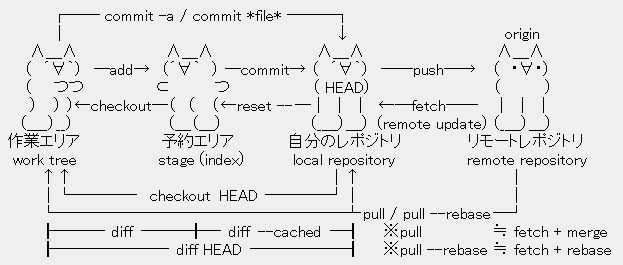
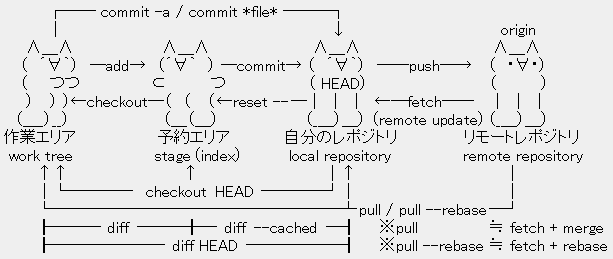
Update the figure. (checkout HEAD affects index)

diff --git a/README.md b/README.md
@@ -19,7 +19,7 @@ Git とは
 　（＿_）__）　　　　　　　 　（＿（＿） 　 　 　　　　 （_＿）＿） （remote update) （_＿）＿）
 作業エリア　　　　　　　 予約エリア　　　　　自分のレポジトリ　　　　　　リモートレポジトリ
 &nbsp;work tree　　　　　　　 stage (index)　　　　 local repository　　　　　 　remote repository
-　　　↑↑ 　 　 　 　　　　　　　　　　　　　　　　　&emsp;│↑ 　　　　　　　　　　　　　│
+　　　↑↑ 　 　 　　　　　　　↑　　　　　　　　　　&emsp;│↑ 　　　　　　　　　　　　　│
 　　　│└────&thinsp;　checkout&ensp;HEAD &thinsp;────┘│ 　　　　　　　　　　　　　│
 　　　└──────────────────┴&thinsp;pull / pull --rebase&thinsp;─┘
 　　　┠───&nbsp;&thinsp;diff&ensp;───╂─&ensp;diff&ensp;--cached&ensp;─┨　　※pull　　　　　　 ≒ fetch + merge
